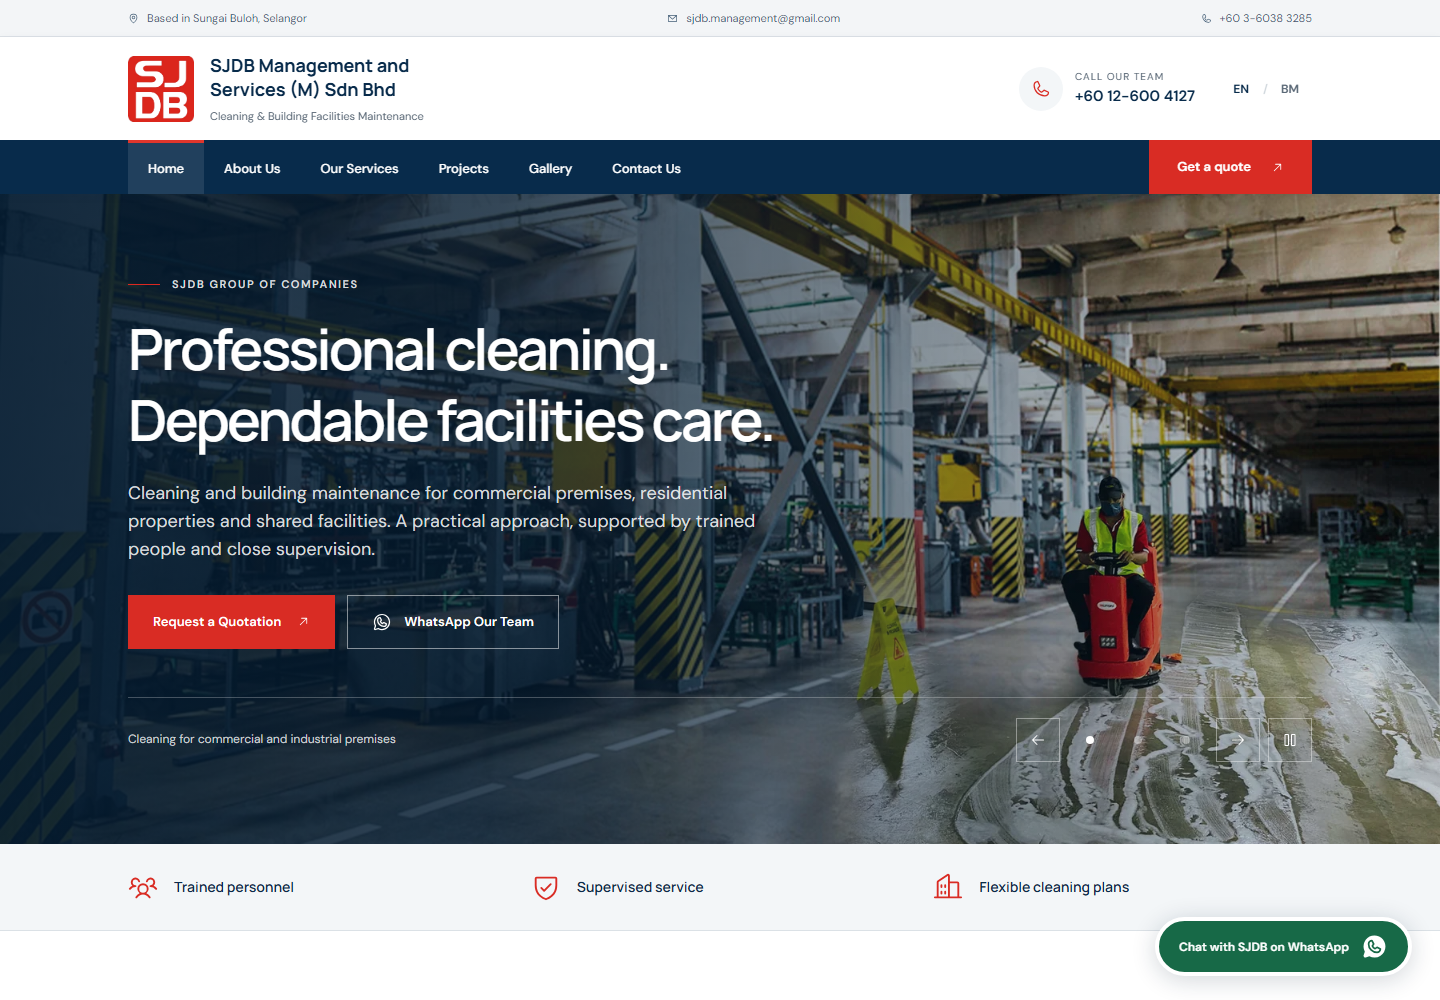
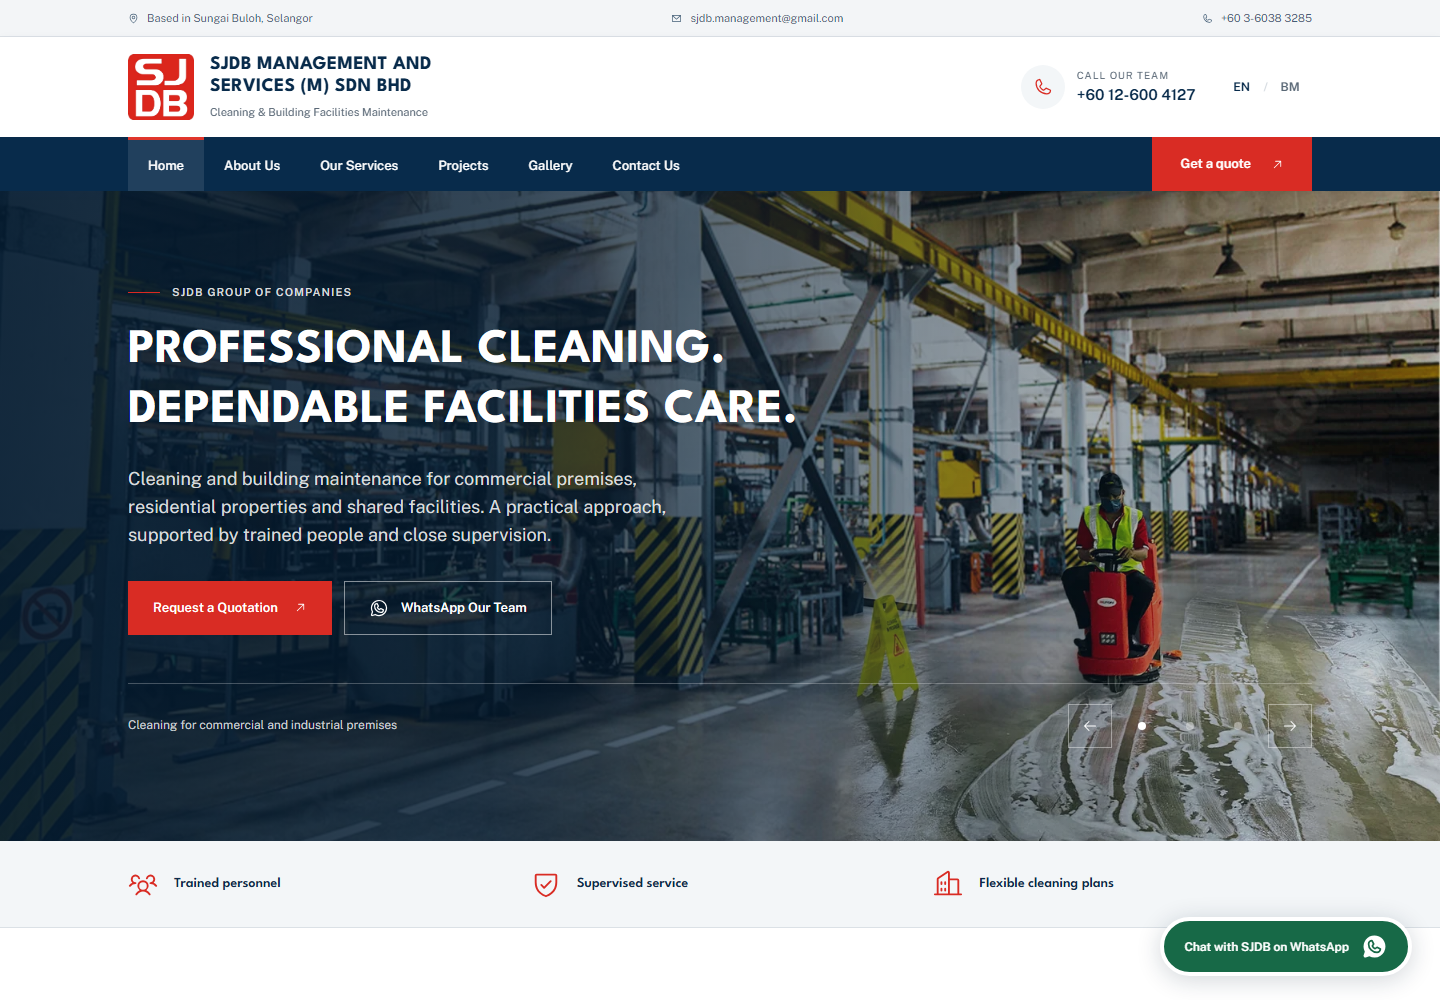
Match proposal typography and simplify slideshow controls

diff --git a/src/CorporateSections.tsx b/src/CorporateSections.tsx
@@ -7,8 +7,6 @@ import {
   DownloadSimple,
   Flag,
   MagnifyingGlassPlus,
-  Pause,
-  Play,
   ShieldCheck,
   Target,
   WhatsappLogo,
@@ -38,7 +36,6 @@ const serviceImages: Record<string, string> = {
 export const CorporateHero = ({ language, whatsappLink }: EnquiryProps) => {
   const heroRegion = useRef<HTMLElement>(null);
   const [activeSlide, setActiveSlide] = useState(0);
-  const [playing, setPlaying] = useState(true);
   const [hovered, setHovered] = useState(false);
   const [focused, setFocused] = useState(false);
   const [reducedMotion, setReducedMotion] = useState(false);
@@ -62,10 +59,9 @@ export const CorporateHero = ({ language, whatsappLink }: EnquiryProps) => {
     };
   }, []);
 
-  const isRotating =
-    playing && !hovered && !focused && !reducedMotion && pageVisible;
+  const isRotating = !hovered && !focused && !reducedMotion && pageVisible;
   useEffect(() => {
-    if (!playing || reducedMotion || !pageVisible) return;
+    if (reducedMotion || !pageVisible) return;
     const timer = window.setInterval(() => {
       // Scrolling can change hover/focus without a matching React leave event.
       // Check the current DOM state so rotation resumes after interaction ends.
@@ -78,7 +74,7 @@ export const CorporateHero = ({ language, whatsappLink }: EnquiryProps) => {
       setActiveSlide((current) => (current + 1) % heroSlides.length);
     }, 5000);
     return () => window.clearInterval(timer);
-  }, [activeSlide, playing, reducedMotion, pageVisible]);
+  }, [activeSlide, reducedMotion, pageVisible]);
 
   const handleSlide = (offset: number) => {
     setActiveSlide(
@@ -124,12 +120,12 @@ export const CorporateHero = ({ language, whatsappLink }: EnquiryProps) => {
       ))}
       <div className="corp-hero-shade absolute inset-0" aria-hidden="true" />
       <div className="site-container relative z-10 flex min-h-[600px] flex-col justify-center py-20 sm:min-h-[650px]">
-        <div className="max-w-[750px]">
+        <div className="hero-copy max-w-[790px]">
           <p className="eyebrow mb-6 !text-white/85">
             <span className="h-px w-8 bg-[#db2821]" />
             {t.hero.eyebrow}
           </p>
-          <h1 className="max-w-[18ch] font-display text-[clamp(2.45rem,4.5vw,4.2rem)] font-bold leading-[1.12] tracking-[-.045em]">
+          <h1 className="hero-heading">
             {t.hero.title}
             <span className="mt-2 block">{t.hero.line2}</span>
           </h1>
@@ -199,27 +195,6 @@ export const CorporateHero = ({ language, whatsappLink }: EnquiryProps) => {
               className="grid h-11 w-11 place-items-center border border-white/40 transition-colors hover:bg-white/15"
             >
               <ArrowRight aria-hidden="true" />
-            </button>
-            <button
-              type="button"
-              onClick={() => setPlaying((current) => !current)}
-              aria-label={
-                language === "en"
-                  ? playing
-                    ? "Pause automatic slideshow"
-                    : "Play automatic slideshow"
-                  : playing
-                    ? "Jeda tayangan slaid automatik"
-                    : "Mainkan tayangan slaid automatik"
-              }
-              aria-pressed={!playing}
-              className="grid h-11 w-11 place-items-center border border-white/40 transition-colors hover:bg-white/15"
-            >
-              {playing ? (
-                <Pause aria-hidden="true" />
-              ) : (
-                <Play aria-hidden="true" />
-              )}
             </button>
           </div>
         </div>
@@ -293,7 +268,7 @@ export const HomeServices = ({ language }: LanguageProps) => {
                   width="800"
                   height="600"
                   loading="lazy"
-                  className="h-full w-full object-cover transition-transform duration-500 group-hover:scale-105"
+                  className="h-full w-full object-cover transition-transform duration-500 motion-safe:group-hover:scale-[1.025]"
                 />
               </div>
               <div className="flex flex-1 flex-col p-6">
@@ -357,7 +332,7 @@ export const HomeProjects = ({
                   width="800"
                   height="600"
                   loading="lazy"
-                  className="h-full w-full object-cover transition-transform duration-500 group-hover:scale-105"
+                  className="h-full w-full object-cover transition-transform duration-500 motion-safe:group-hover:scale-[1.025]"
                 />
                 <span className="absolute bottom-4 right-4 grid h-11 w-11 place-items-center bg-white text-xl text-ink transition-colors group-hover:bg-brand group-hover:text-white">
                   <ArrowUpRight aria-hidden="true" />
@@ -568,7 +543,7 @@ export const WorkGallery = ({ language }: LanguageProps) => {
                     width="900"
                     height="675"
                     loading="lazy"
-                    className="h-full w-full object-cover transition-transform duration-500 group-hover:scale-105"
+                    className="h-full w-full object-cover transition-transform duration-500 motion-safe:group-hover:scale-[1.025]"
                   />
                   <span className="absolute bottom-4 right-4 grid h-11 w-11 place-items-center bg-white text-xl text-ink transition-colors group-hover:bg-brand group-hover:text-white">
                     <MagnifyingGlassPlus aria-hidden="true" />
@@ -645,9 +620,7 @@ export const PageHeading = ({
           <span aria-hidden="true">/</span>
           <span aria-current="page">{t.nav[page]}</span>
         </nav>
-        <h1 className="mb-5 font-display text-[clamp(2.25rem,4vw,3.5rem)] font-bold leading-[1.15] tracking-[-.04em]">
-          {t.nav[page]}
-        </h1>
+        <h1 className="corporate-page-title mb-5">{t.nav[page]}</h1>
         <p className="max-w-[70ch] text-base leading-[1.7] text-muted">
           {descriptions[page]}
         </p>

diff --git a/src/styles.css b/src/styles.css
@@ -4,7 +4,7 @@
 
 @layer base {
   :root {
-    font-family: "DM Sans", sans-serif;
+    font-family: "Public Sans", sans-serif;
     color: #082b4b;
     background: #fff;
     font-synthesis: none;
@@ -44,14 +44,14 @@
   h1,
   h2,
   h3 {
-    font-family: "Manrope", sans-serif;
+    font-family: "League Spartan", sans-serif;
     text-wrap: balance;
   }
   h2 {
     font-size: clamp(1.9rem, 3.1vw, 2.8rem);
-    font-weight: 600;
-    line-height: 1.2;
-    letter-spacing: -0.045em;
+    font-weight: 700;
+    line-height: 1.15;
+    letter-spacing: 0.005em;
   }
   p {
     text-wrap: pretty;
@@ -72,11 +72,7 @@
     @apply py-16 lg:py-24;
   }
   .eyebrow {
-    @apply flex items-center gap-3 text-[10px] font-semibold uppercase tracking-[.14em] text-brand sm:text-[11px];
-  }
-  .hero-title {
-    font-size: clamp(2.65rem, 4.5vw, 4rem);
-    @apply font-display font-semibold leading-[1.11] tracking-[-.055em];
+    @apply flex items-center gap-3 text-[10px] font-semibold uppercase tracking-[.1em] text-brand sm:text-[11px];
   }
   .button-primary {
     @apply inline-flex min-h-12 items-center justify-center gap-4 bg-[#d92c24] px-6 py-4 text-[13px] font-semibold text-white transition-colors hover:bg-[#b3211a];
@@ -97,7 +93,7 @@
     @apply mb-10 grid items-end gap-6 lg:grid-cols-[1.15fr_1fr] lg:gap-20;
   }
   .section-description {
-    @apply max-w-[46ch] text-[15px] leading-[1.65] text-muted;
+    @apply max-w-[46ch] text-base leading-[1.6] text-muted;
   }
   .service-tab {
     @apply min-h-11 border border-transparent px-4 py-3 text-xs font-medium text-muted transition-colors hover:bg-mist;
@@ -161,7 +157,7 @@
     @apply h-[66px] w-[66px] shrink-0;
   }
   .corporate-brand strong {
-    @apply font-display text-[18px] font-bold leading-[1.35];
+    @apply font-display text-[19px] font-bold uppercase leading-[1.15] tracking-[.015em];
   }
   .corporate-brand small {
     @apply mt-1.5 block text-[11px] text-muted;
@@ -202,8 +198,12 @@
     @apply text-white/85;
   }
   .corp-hero h1 {
-    @apply max-w-[850px] font-display font-semibold leading-[1.11] tracking-[-.045em];
-    font-size: clamp(2.3rem, 4vw, 3.55rem);
+    @apply max-w-[850px] font-display font-bold uppercase leading-[1.08] tracking-[.01em];
+    font-size: clamp(2.1rem, 3.5vw, 3rem);
+  }
+  .corporate-page-title {
+    @apply font-display font-bold uppercase leading-[1.1] tracking-[.01em];
+    font-size: clamp(2.1rem, 4vw, 3.1rem);
   }
   .corp-hero .button-outline {
     @apply border-white/60 text-white hover:border-white hover:bg-white/10;
@@ -225,10 +225,37 @@
 }
 @media (prefers-reduced-motion: no-preference) {
   [data-reveal].is-visible {
-    animation: card-enter 0.65s cubic-bezier(0.2, 0.6, 0.2, 1) both;
+    animation: section-reveal 0.55s ease-out both;
   }
-  .hero-title {
-    animation: card-enter 0.7s ease-out both;
+  .hero-copy > * {
+    animation: hero-entrance 0.55s cubic-bezier(0.2, 0.6, 0.2, 1) both;
+  }
+  .hero-copy > :nth-child(2) {
+    animation-delay: 60ms;
+  }
+  .hero-copy > :nth-child(3) {
+    animation-delay: 120ms;
+  }
+  .hero-copy > :nth-child(4) {
+    animation-delay: 180ms;
+  }
+}
+@keyframes hero-entrance {
+  from {
+    opacity: 0;
+    transform: translateY(10px);
+  }
+  to {
+    opacity: 1;
+    transform: translateY(0);
+  }
+}
+@keyframes section-reveal {
+  from {
+    opacity: 0;
+  }
+  to {
+    opacity: 1;
   }
 }
 @keyframes card-enter {
@@ -244,9 +271,6 @@
 @media (max-width: 639px) {
   .form-input {
     font-size: 16px;
-  }
-  .hero-title {
-    font-size: clamp(2.5rem, 9.8vw, 3.7rem);
   }
   html {
     scroll-padding-top: 110px;

diff --git a/src/App.tsx b/src/App.tsx
@@ -678,7 +678,7 @@ const App = ({ page = "home" }: { page?: PageId }) => {
                             width="800"
                             height="600"
                             loading="lazy"
-                            className="h-full w-full object-cover transition-transform duration-500 group-hover:scale-105"
+                            className="h-full w-full object-cover transition-transform duration-500 motion-safe:group-hover:scale-[1.025]"
                           />
                           <span className="absolute bottom-4 right-4 grid h-10 w-10 place-items-center rounded-full bg-white text-xl transition-colors group-hover:bg-ink group-hover:text-white">
                             <ArrowUpRight aria-hidden="true" />

diff --git a/src/main.tsx b/src/main.tsx
@@ -1,11 +1,10 @@
 import React from "react";
 import ReactDOM from "react-dom/client";
-import "@fontsource/dm-sans/latin-400.css";
-import "@fontsource/dm-sans/latin-500.css";
-import "@fontsource/dm-sans/latin-600.css";
-import "@fontsource/manrope/latin-500.css";
-import "@fontsource/manrope/latin-600.css";
-import "@fontsource/manrope/latin-700.css";
+import "@fontsource/public-sans/latin-400.css";
+import "@fontsource/public-sans/latin-500.css";
+import "@fontsource/public-sans/latin-600.css";
+import "@fontsource/league-spartan/latin-600.css";
+import "@fontsource/league-spartan/latin-700.css";
 import App from "./App";
 import { pageFiles } from "./corporate-content";
 import "./styles.css";

diff --git a/tailwind.config.js b/tailwind.config.js
@@ -9,8 +9,8 @@ export default {
         muted: "#5a6876",
       },
       fontFamily: {
-        sans: ["DM Sans", "sans-serif"],
-        display: ["Manrope", "sans-serif"],
+        sans: ["Public Sans", "sans-serif"],
+        display: ["League Spartan", "sans-serif"],
       },
     },
   },

diff --git a/docs/typography-and-motion.md b/docs/typography-and-motion.md
@@ -1,0 +1,26 @@
+# Proposal-based typography and motion — 5 November 2026
+
+## Typography evidence
+
+The supplied SJDB 2026 profile uses several font families. Embedded font resources and representative rendered pages were inspected before choosing the website pairing:
+
+- **League Spartan Bold** appears in the company identity and service descriptor on cover page 1. It now supplies the website's display headings and company name.
+- **Public Sans Regular/Bold** appears in service text on pages 12–13. It now supplies the website's body and interface text.
+
+This is a coherent pairing drawn from the actual proposal, rather than an attempt to reproduce every font used across its 22 pages. The previous Manrope/DM Sans pairing has been removed. Heading tracking is no longer tightly compressed; the cover-led hero and company identity use heavier uppercase type.
+
+The fonts are self-hosted through Fontsource. Their SIL Open Font License notices are included in `public/fonts/`. The embedded PDF font binaries were not redistributed.
+
+## Motion and controls
+
+- Removed the visible pause/play button and its state. Previous/next arrows and slide-selection dots remain.
+- Photographs continue to rotate every five seconds, with automatic suspension for hover, keyboard focus, hidden tabs and reduced-motion preferences.
+- Added one short, staggered entrance for the homepage headline, description and enquiry actions.
+- Section reveals use a quiet fade. Photo-hover zoom is limited to 2.5% and only applies when motion is allowed.
+- Reduced-motion users receive static entrance content and a slideshow that does not auto-advance.
+
+The local typography skill and the online [Frontend Design skill](https://github.com/anthropics/skills/blob/main/skills/frontend-design/SKILL.md) informed the hierarchy and restrained motion; the proposal supplied the font choices.
+
+## Verified before publishing
+
+Production build and six-page prerender passed. All six pages in both languages have no overflow at 320, 390, 768 and 1440 pixels (48 checks). The new font families and weights load correctly. No pause/play button appears in either language. Automatic slide advance, hover suspension, resume after interaction, manual navigation and reduced-motion behaviour passed browser checks without runtime errors.

diff --git a/progress.md b/progress.md
@@ -17,4 +17,11 @@
 - Production build, prerendering, 48 responsive language/page checks and functional browser journeys passed. See `research/revised-draft-verification.md`.
 - Merged [PR #2](https://github.com/FixITSukil/SJDB-Website/pull/2) into `main` at `9cbd938d4ea9ef021180637d1a2614f85adb20a3`. [GitHub Actions deployment 41985997015](https://github.com/FixITSukil/SJDB-Website/actions/runs/41985997015) published the revised six-page [customer presentation site](https://fixitsukil.github.io/SJDB-Website/). Live route, asset, PDF, canonical, gallery, mobile EN/BM and enquiry checks passed.
 - Live slideshow testing confirmed automatic advance, pause and manual navigation, then exposed a stale hover/focus state after leaving the controls. The timer now rechecks actual DOM hover/focus every five seconds. Local and live regression checks pass automatic rotation, pause, manual navigation, resume and reduced motion. [Deployment 41986972674](https://github.com/FixITSukil/SJDB-Website/actions/runs/41986972674) published the fix at commit `1137578`.
+
+## Proposal typography refinement — 5 November 2026
+
+- Removed the visible pause/play control while retaining automatic rotation, arrows/dots and automatic suspension during interaction or reduced motion.
+- Inspected the proposal's embedded fonts and adopted League Spartan display type from its cover with Public Sans from its service text. Replaced Manrope/DM Sans and relaxed the compressed heading tracking.
+- Added a short hero entrance sequence, quiet section fades and restrained photo-hover motion. Reduced-motion support remains in place.
+- Production build, 48 bilingual responsive checks and slideshow/animation browser checks passed. See `docs/typography-and-motion.md`.
 - Additional customer information and photographs can be integrated when supplied. No custom domain is configured.

diff --git a/README.md b/README.md
@@ -35,7 +35,7 @@ The official action release versions were checked on 20 October 2026: [checkout]
 ## Enquiries and interaction
 
 - The language selector changes the visible copy and document language. The browser stores the selection under `sjdb-language` in local storage; the selector still works when storage is unavailable.
-- The corporate navigation opens real static pages. Category links open the matching service selection; service enquiry buttons carry the selected service to Contact. Project and gallery filters switch content, and image cards open native dialogs. The homepage slideshow preserves automatic rotation with pause/play, hover/focus pauses and reduced-motion support.
+- The corporate navigation opens real static pages. Category links open the matching service selection; service enquiry buttons carry the selected service to Contact. Project and gallery filters switch content, and image cards open native dialogs. The homepage slideshow rotates automatically, with arrows/dots, hover/focus suspension and reduced-motion support. The visible pause/play button was removed at the user's request.
 - Call links open the device's phone handler. WhatsApp links open `wa.me` using SJDB's profile mobile number. Email links use the visitor's configured email application.
 - The contact form prepares a message and opens WhatsApp or an email draft. **The visitor must review and send the message in that application.** The page has no enquiry backend, email delivery service, database, booking system or payment processing. It does not confirm message delivery. A prepared-message link remains available if the external application did not open automatically.
 - The directions link searches Google Maps using the profile address; it is not a verified Google Business Profile link.

diff --git a/docs/customer-reference-direction.md b/docs/customer-reference-direction.md
@@ -17,7 +17,7 @@ The customer requested a presentation similar to Graduan Bersatu Padat and Ambie
 5. **Gallery:** nine authentic work/team photographs, filters and keyboard-accessible image dialogs.
 6. **Contact Us:** existing phone, WhatsApp, email and directions links; a localized enquiry form preselects services carried across from other pages.
 
-English/Bahasa Malaysia, reduced-motion support, mobile navigation, mobile contact bar, profile download and accessible slideshow pause/play controls are retained. Every route is emitted as an HTML file so it can be opened directly on GitHub Pages.
+English/Bahasa Malaysia, reduced-motion support, mobile navigation, mobile contact bar, profile download and slideshow arrows/dots are retained. The visible pause/play button was subsequently removed at the user's request. Every route is emitted as an HTML file so it can be opened directly on GitHub Pages.
 
 ## Future customer material
 
